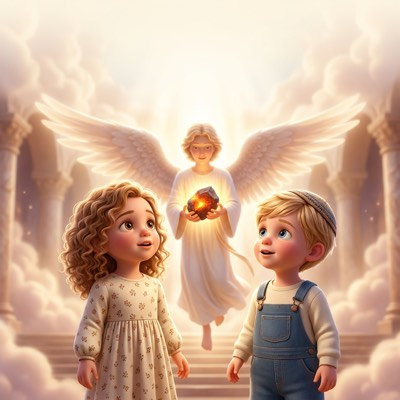
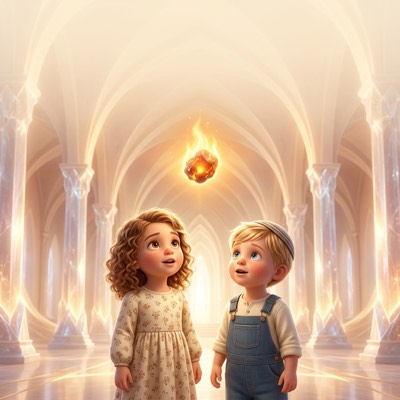
Blog agent: refuse a Hebrew title that reuses an existing one's shape
The five-article batch shipped three Yamim Tovim articles whose Hebrew titles
were identical after the colon — '<chag> לילדים: איך מספרים את הסיפור בבית'.
The bodies were genuinely different; the titles read as a template, which is
what a search engine treats as filler.

The Hebrew writer now sees every published Hebrew title and is told to be
distinct rather than swap the chag, and validation rejects a title whose tail
repeats a published one.

diff --git a/src/data/testimonials.ts b/src/data/testimonials.ts
@@ -15,29 +15,29 @@ export const TESTIMONIALS: Testimonial[] = [
   { name: "Shaindy Klein", location: "Boro Park, NY", text: "My son didn't believe it was really him in the sefer until he saw his own face holding the luchos. He hasn't stopped showing his rebbi.", rating: 5 },
   { name: "Dovid Mandel", location: "Passaic, NJ", text: "Worth every penny. The print quality is gorgeous, the hardcover feels like a real keepsake we'll pass down.", rating: 5 },
   { name: "Esty Greenbaum", location: "Cleveland, OH", text: "We ordered for our twins and each got their own story. The faces actually look like them — I was shocked.", rating: 5 },
-  { name: "Yossi Adler", location: "Baltimore, MD", text: "The Krias Yam Suf book had my three-year-old gasping at the split sea. Bedtime is now Torah time. Incredible.", rating: 5 },
+  { name: "Yossi Adler", location: "Baltimore, MD", text: "The Dovid and Golias book had my three-year-old cheering out loud. He carries it around like a shield. Incredible.", rating: 5 },
   { name: "Miriam Stein", location: "Toronto, ON", text: "I cried when it arrived. Seeing my Sarala walking with the Imahos, dressed so tzniusdik — exactly what I hoped for.", rating: 5 },
   { name: "Yitzchok Berman", location: "Chicago, IL", text: "Shipping was fast and the customer care answered every question. The book itself is a work of art.", rating: 5 },
   { name: "Bracha Lowenthal", location: "Far Rockaway, NY", text: "My daughter takes it everywhere. The binding has survived months of daily reading by little hands.", rating: 5 },
   { name: "Menachem Pollak", location: "Los Angeles, CA", text: "As a rebbi I was skeptical about AI, but the content is authentic and respectful. I now recommend it to all my talmidim's parents.", rating: 5 },
   { name: "Devorah Katz", location: "Silver Spring, MD", text: "The personalization goes beyond the name — my son's curly peyos and glasses are right there on every page.", rating: 5 },
   { name: "Shlomo Hirsch", location: "Cedarhurst, NY", text: "Bought it as a birthday gift for my nephew. My sister called me crying happy tears. Best gift I've ever given.", rating: 5 },
-  { name: "Rochel Taub", location: "Monsey, NY", text: "The Noach's teivah story with all the animals is my kids' favorite. They point to themselves on the teivah every time.", rating: 5 },
+  { name: "Rochel Taub", location: "Monsey, NY", text: "The Chanukah book is my kids' favorite — they point to themselves lighting the menorah every single night of Chanukah.", rating: 5 },
   { name: "Ari Schwartz", location: "Teaneck, NJ", text: "Beautiful values woven into every page. My daughter learned about chesed without even realizing she was learning.", rating: 4 },
   { name: "Tzippy Roth", location: "Brooklyn, NY", text: "I love that the girls are dressed modestly and modern at the same time. Finally a book that reflects our home.", rating: 5 },
-  { name: "Naftali Gross", location: "Lakewood, NJ", text: "The Avraham counting the stars page is breathtaking. We framed a print of it for the kids' room.", rating: 5 },
+  { name: "Naftali Gross", location: "Lakewood, NJ", text: "The Yonah page with the great fish rising out of the water is breathtaking. We framed a print of it for the kids' room.", rating: 5 },
   { name: "Leah Mintz", location: "Flatbush, NY", text: "Three orders and counting. Every grandchild gets one for their upsherin. It's become our family tradition.", rating: 5 },
   { name: "Moshe Davidson", location: "Houston, TX", text: "Living out of town, this brings so much Yiddishkeit into our home. The kids feel connected to the parsha all week.", rating: 5 },
   { name: "Faigy Stern", location: "Montreal, QC", text: "The Hebrew option is wonderful for our chinuch. My son reads the loshon hakodesh proudly to his zaidy.", rating: 5 },
   { name: "Yehuda Brenner", location: "Boro Park, NY", text: "Customer service helped me get it before Yom Tov when I ordered late. Above and beyond. Menschlich people.", rating: 5 },
   { name: "Suri Feldman", location: "Monsey, NY", text: "My daughter who never sat for stories now begs for 'her book.' Seeing herself as the star changed everything.", rating: 5 },
-  { name: "Eli Kaplan", location: "Detroit, MI", text: "The Yosef coat of colors edition is so vivid. The colors practically glow off the page. Stunning craftsmanship.", rating: 5 },
+  { name: "Eli Kaplan", location: "Detroit, MI", text: "The Daniel in the lions' den edition is so vivid. The light practically glows off the page. Stunning craftsmanship.", rating: 5 },
   { name: "Nechama Wolf", location: "Memphis, TN", text: "We use it to prepare the kids for the parsha each week. They walk into the seuda already knowing the story.", rating: 5 },
   { name: "Berel Lieberman", location: "Crown Heights, NY", text: "A gift that keeps giving. My son is prouder of this book than any toy he owns. Pure nachas.", rating: 5 },
   { name: "Goldie Ackerman", location: "Lakewood, NJ", text: "The board book is perfect for my toddler — thick pages, rounded corners, gorgeous art. He can't damage it.", rating: 5 },
   { name: "Chaim Steinberg", location: "Phoenix, AZ", text: "Out here we don't have much, so a personalized Torah sefer means the world. The kids treasure it.", rating: 5 },
   { name: "Malky Horowitz", location: "Monsey, NY", text: "I appreciated being able to review and approve before printing. The team made small fixes I asked for happily.", rating: 5 },
-  { name: "Shimon Erlich", location: "Toronto, ON", text: "The Matan Torah book with the lightning and shofar is dramatic and tasteful. My son acts it out every night.", rating: 5 },
+  { name: "Shimon Erlich", location: "Toronto, ON", text: "The Megillas Rus book about loyalty and chesed is gentle and tasteful. My daughter asks for it every Shavuos.", rating: 5 },
   { name: "Ruchie Glick", location: "Brooklyn, NY", text: "Five stars isn't enough. The quality, the care, the message — everything is l'shem Shamayim. Hatzlacha to this company.", rating: 5 },
   { name: "Yaakov Neuman", location: "Baltimore, MD", text: "My daughter's modest dress in the book matches how we dress at home. The attention to detail is remarkable.", rating: 5 },
   { name: "Hindy Rubin", location: "Cedarhurst, NY", text: "We gave it at the bris as a gift for the older siblings so they wouldn't feel left out. Genius idea, perfect execution.", rating: 5 },

diff --git a/supabase/functions/generate-image/index.ts b/supabase/functions/generate-image/index.ts
@@ -506,6 +506,14 @@ serve(async (req) => {
       imagePrompt += ` ⚠ ART-STYLE LOCK (HIGHEST PRIORITY — overrides the visual look of any attached photo): The FINAL image MUST be a ${styleName}, rendered ENTIRELY in this style: ${styleDesc}. The attached photo is ONLY a likeness reference for the child's face and hair — do NOT reproduce its photographic look, lighting or texture. The output must NOT be a real photograph, NOT photorealistic, and NOT a lightly-edited photo. Fully re-render the child and the entire scene from scratch as a ${styleName}. EVERY page of this book must share this exact same ${styleName} art style — never mix in a realistic/photographic page.`;
     }
 
+    // ── MALACHIM ────────────────────────────────────────────────────────────
+    // Angels appear all over Tanach — Yaakov's ladder, Bilaam's donkey, the
+    // malach at Yeshayahu's coal — and image models default to drawing them as
+    // winged human figures with faces. A depicted face on a malach is not what
+    // this product should be putting in front of frum children, so wherever one
+    // belongs in the scene it is rendered as light rather than as a person.
+    imagePrompt += ` ⚠ MALACHIM / ANGELS — ABSOLUTE RULE: NEVER draw a face on a malach (angel). If the scene calls for a malach, depict it ONLY as radiant light: a glowing presence, a column or beam of light, a luminous silhouette, or wings of light — with NO face, NO facial features, NO eyes, mouth or nose, and NO human head. Do not render angels as people. This applies to every angel, seraph, cherub or heavenly messenger, in the foreground or the background, no matter how small.`;
+
     // ── CAPTION SPACE ───────────────────────────────────────────────────────
     // Reserve a calm band along the bottom of story-page illustrations so the app
     // can auto-place the story text there without overlapping faces or action.

diff --git a/src/test/blogAgent.test.ts b/src/test/blogAgent.test.ts
@@ -134,6 +134,17 @@ describe("blog agent Hebrew validation", () => {
     expect(validateHebrew(bad).join(" ")).toMatch(/Hebrew search phrases/);
   });
 
+  it("rejects a Hebrew title that reuses an existing title's shape", () => {
+    // Three holiday articles once shipped as "<chag> לילדים: איך מספרים את הסיפור בבית".
+    const published = ["ראש השנה לילדים: איך מספרים את הסיפור בבית"];
+    const templated = hebrew({ title: "סוכות לילדים: איך מספרים את הסיפור בבית" });
+    expect(validateHebrew(templated, { publishedTitles: published }).join(" ")).toMatch(
+      /repeats the shape/
+    );
+    const distinct = hebrew({ title: "סוכות לילדים: למה יוצאים מהבית לשבעה ימים" });
+    expect(validateHebrew(distinct, { publishedTitles: published })).toEqual([]);
+  });
+
   it("rejects a Hebrew title that is really English", () => {
     expect(validateHebrew(hebrew({ title: "Parshas Noach for Kids" })).join(" ")).toMatch(/he\.title/);
   });

diff --git a/src/i18n/en.ts b/src/i18n/en.ts
@@ -167,7 +167,7 @@ export const en = {
     children: "Children",
     booksCreated: "Books Created",
     draftBooks: "Draft Books",
-    activeSubs: "Active Subs",
+    activeSubs: "Active Subscriptions",
     continueTitle: "Continue where you left off",
     continueDesc: "draft book(s) waiting to be ordered.",
     reviewBooks: "Review My Books",
@@ -441,7 +441,7 @@ export const en = {
     teamTitle: "The Team",
     teamDesc: "Torah Tale is built by a small, passionate team of engineers, educators, and parents who believe technology can serve Torah values. We work closely with mechanchim and rabbonim to ensure every book meets the highest standards of accuracy and yiras shamayim.",
     ctaTitle: "Ready to Create Your Child's Story?",
-    ctaDesc: "Join thousands of families who are making Torah learning personal, memorable, and magical.",
+    ctaDesc: "Join thousands of families who are making Torah learning personal, memorable, and joyful.",
     ctaButton: "Create My Book",
     ctaContact: "Contact Us",
   },

diff --git a/src/i18n/he.ts b/src/i18n/he.ts
@@ -430,7 +430,7 @@ export const he: typeof en = {
     teamTitle: "הצוות שלנו",
     teamDesc: "מאחורי TorahTale עומד צוות קטן ונלהב של מפתחים, מחנכים והורים, שמאמינים שטכנולוגיה יכולה לעמוד בשירות ערכי התורה. אנחנו עובדים יד ביד עם מחנכים ורבנים, כדי שכל סיפור יעמוד בסטנדרטים הגבוהים ביותר של דיוק ושל יראת שמיים.",
     ctaTitle: "מוכנים ליצור את הסיפור של ילדכם?",
-    ctaDesc: "הצטרפו לאלפי משפחות שכבר הפכו את לימוד התורה לאישי, בלתי נשכח וקסום.",
+    ctaDesc: "הצטרפו לאלפי משפחות שכבר הפכו את לימוד התורה לאישי, בלתי נשכח ומשמח.",
     ctaButton: "צרו את הסיפור של ילדכם",
     ctaContact: "דברו איתנו",
   },

diff --git a/src/i18n/yi.ts b/src/i18n/yi.ts
@@ -430,7 +430,7 @@ export const yi: typeof en = {
     teamTitle: "הצוות",
     teamDesc: "Torah Tale נבנה על ידי צוות קטן ונלהב של מהנדסים, מחנכים והורים שמאמינים שטכנולוגיה יכולה לשרת ערכי תורה. אנו עובדים בשיתוף פעולה הדוק עם מחנכים ורבנים כדי להבטיח שכל ספר עומד בסטנדרטים הגבוהים ביותר של דיוק ויראת שמיים.",
     ctaTitle: "?מוכנים ליצור את הסיפור של ילדכם",
-    ctaDesc: "הצטרפו לאלפי משפחות שהופכות את לימוד התורה לאישי, בלתי נשכח וקסום.",
+    ctaDesc: "הצטרפו לאלפי משפחות שהופכות את לימוד התורה לאישי, בלתי נשכח ומשמח.",
     ctaButton: "צור את הספר שלי",
     ctaContact: "צרו קשר",
   },
